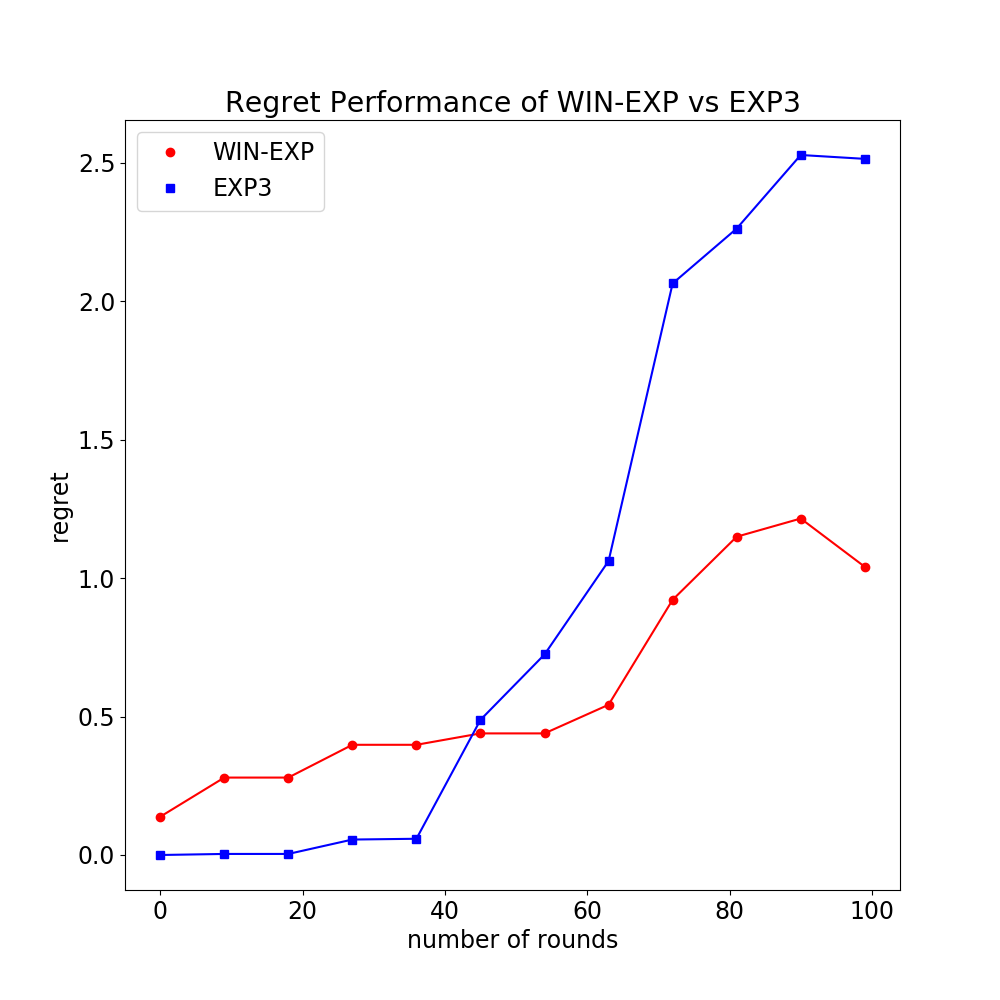
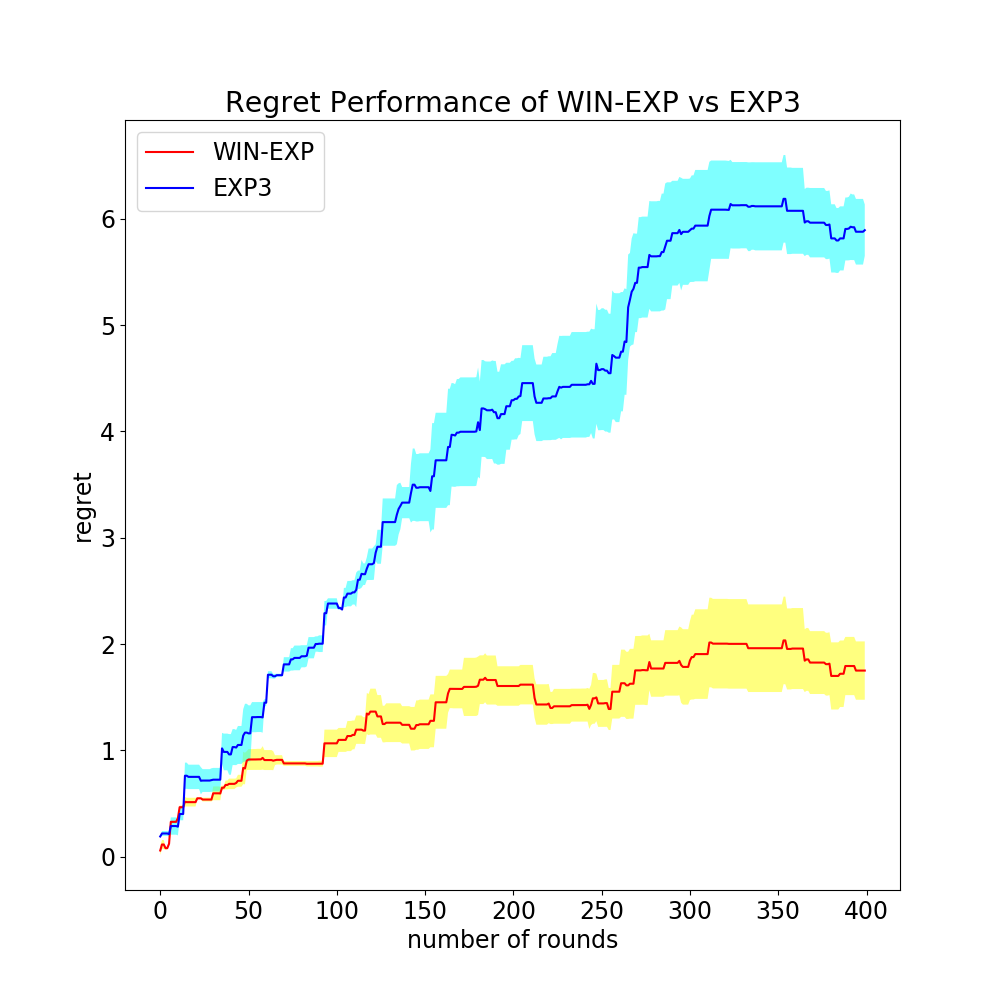
self_play changed

diff --git a/self play/runner-dp.py b/self play/runner-dp.py
@@ -6,15 +6,15 @@ import matplotlib
 import matplotlib.pyplot as plt
 
 
-num_repetitions = 5
+num_repetitions = 2
 winexp = [] 
 exp3 = []
 min_num_rounds = 0
-max_num_rounds = 1000
+max_num_rounds = 400
 step = 10
-num_auctions = 5
+num_auctions = 2
 num_adaptive = 4
-rounds = [T for T in range(min_num_rounds,max_num_rounds, step)]
+rounds = [T for T in range(min_num_rounds,max_num_rounds)]
 
 #initialize the bidders once for the maximum number of rounds 
 T = max_num_rounds
@@ -32,7 +32,7 @@ bidder = [Bidder(i, epsilon, T, outcome_space, num_repetitions, num_auctions) fo
 
 
 #winexp regret has to be returned as a list of all the regrets for all the rounds
-winexp = regret_winexp(bidder, T, num_repetitions, num_bidders, num_slots, outcome_space, rank_scores, ctr, reserve, values, num_auctions, bids, num_adaptive)
+(winexp,winexp_regrets) = regret_winexp(bidder, T, num_repetitions, num_bidders, num_slots, outcome_space, rank_scores, ctr, reserve, values, num_auctions, bids, num_adaptive)
 
 # for each bidder, re-initialize everything
 for i in range(0,num_adaptive):
@@ -48,27 +48,29 @@ for i in range(0,num_adaptive):
     bidder[i].reward_func      = [[[] for t in range(0,T)]  for _ in range(0,num_auctions)]
 
 #this has to be returned as a list of all the regrets for all the rounds 
-exp3 = regret_exp3(bidder,T,num_repetitions, num_bidders, num_slots, outcome_space, rank_scores, ctr, reserve, values, num_auctions,bids,num_adaptive)
+(exp3,exp3_regrets) = regret_exp3(bidder,T,num_repetitions, num_bidders, num_slots, outcome_space, rank_scores, ctr, reserve, values, num_auctions,bids,num_adaptive)
 
-final_winexp = [winexp[i] for i in range(min_num_rounds, max_num_rounds, step)]
-final_exp3 = [exp3[i] for i in range(min_num_rounds,max_num_rounds,step)]
-
-#print ("final_ex3")
-#print final_exp3
+final_winexp            =  np.array([winexp[i] for i in range(min_num_rounds, max_num_rounds)])
+winexp_arr              =  np.array(winexp_regrets) #size repetitions x T
+winexp_10_percentile    =  [np.percentile(winexp_arr[:,t],10) for t in range(0,T)]
+winexp_90_percentile    =  [np.percentile(winexp_arr[:,t],90) for t in range(0,T)]
+final_exp3              =  np.array([exp3[i] for i in range(min_num_rounds,max_num_rounds)])
+exp3_arr                =  np.array(exp3_regrets) #size repetitions x T
+exp3_10_percentile      =  [np.percentile(exp3_arr[:,t],10) for t in range(0,T)]
+exp3_90_percentile      =  [np.percentile(exp3_arr[:,t],90) for t in range(0,T)]
 
 matplotlib.rcParams.update({'font.size': 17})
 fig = plt.figure()
 fig.set_figheight(10)
 fig.set_figwidth(10)
 plt.figure(1,figsize=(10,10))
-plt.plot(rounds, final_winexp, 'ro', label = 'WIN-EXP')
-plt.plot(rounds,final_winexp, 'r-')
-plt.plot(rounds, final_exp3, 'bs', label = 'EXP3')
-plt.plot(rounds,final_exp3, 'b-')
+plt.plot(rounds, final_winexp, 'r-', label = 'WIN-EXP')
+plt.fill_between(rounds, winexp_10_percentile, winexp_90_percentile,facecolor='yellow', alpha=0.5)
+plt.plot(rounds, final_exp3, 'b-', label = 'EXP3')
+plt.fill_between(rounds, exp3_10_percentile, exp3_90_percentile,facecolor='cyan', alpha=0.5)
 plt.legend(loc='best')
 plt.xlabel('number of rounds')
 plt.ylabel('regret')
 plt.title('Regret Performance of WIN-EXP vs EXP3')
 plt.savefig('self_play.png')
-#plt.savefig('exp3.png')
-#plt.show()
+plt.show()

diff --git a/self play/runner_winexp_all_bidders.py b/self play/runner_winexp_all_bidders.py
@@ -22,7 +22,7 @@ def compute_reward(allocation_func, payment_func, ctr, values):
         if b in ctr:
             # If bidder isn't allocated any slot: b == 0
             # However, b == 0 also if the CTR of the position is 0
-            reward_lst.append(values[ctr.index(b)] - payment_func[allocation_func.index(b)])
+            reward_lst.append(values - payment_func[allocation_func.index(b)])
         else :
             reward_lst.append(-1)
     return reward_lst
@@ -44,6 +44,7 @@ def main_winexp(bidder,curr_rep, T,num_bidders, num_slots, outcome_space, rank_s
                 bid_chosen[i] = bids[t][i]
 
         # same bid over all auctions that run at the same timestep
+        auctions_won = 0
         for auction in range(0,num_auctions):
             #print ("all bids at timestep t=%d"%t)
             #bids[t] = bid_chosen
@@ -56,10 +57,11 @@ def main_winexp(bidder,curr_rep, T,num_bidders, num_slots, outcome_space, rank_s
                 bidder[i].alloc_func[auction][t] = [GSP(ctr[auction][t], reserve[auction][t], bids[t], rank_scores[auction][t], num_slots, num_bidders).alloc_func(bidder[i].id, bid*bidder[i].eps) for bid in range(0, bidder[i].bid_space)]
                 bid_vec = deepcopy(bids[t])
                 bidder[i].pay_func[t] = [GSP(ctr[auction][t], reserve[auction][t], bid_vec, rank_scores[auction][t], num_slots, num_bidders).pay_func(bidder[i].id, bid*bidder[i].eps) for bid in range(0, bidder[i].bid_space)]  
-                bidder[i].reward_func[auction][t] = compute_reward(bidder[i].alloc_func[auction][t], bidder[i].pay_func[t], ctr[auction][t], values[auction][t])
+                bidder[i].reward_func[auction][t] = compute_reward(bidder[i].alloc_func[auction][t], bidder[i].pay_func[t], ctr[auction][t], values[auction][t][bidder[i].id])
                 if bidder[i].id == 0:
                     # Only the learner follows WINEXP
                     if bidder[i].alloc_func[auction][t][int(math.ceil(bids[t][bidder[i].id]/bidder[i].eps))] != 0:
+                        auctions_won += 1
                         bidder[i].utility[auction][t] = (bidder[i].compute_utility(1, bidder[i].reward_func[auction][t], bidder[i].alloc_func[auction][t]))
                     else: 
                         bidder[i].utility[auction][t] = (bidder[i].compute_utility(0, bidder[i].reward_func[auction][t], bidder[i].alloc_func[auction][t]))
@@ -80,7 +82,7 @@ def main_winexp(bidder,curr_rep, T,num_bidders, num_slots, outcome_space, rank_s
                     r_s[b] += bidder[i].reward_func[auction][t][b]*bidder[i].alloc_func[auction][t][b]
                 #bidder.avg_utility[t].append(u_s[b]/num_auctions - 1) 
                 if bidder[i].id == 0:
-                    bidder[i].avg_utility[t].append(u_s[b]/num_auctions)
+                    bidder[i].avg_utility[t].append(u_s[b]/num_auctions + (num_auctions - auctions_won)/(num_auctions))
                     bidder[i].avg_reward[t].append(r_s[b]/num_auctions)
                 else: 
                     bidder[i].avg_utility[t].append(r_s[b]/num_auctions -1)

diff --git a/self play/runner_exp3_all_bidders.py b/self play/runner_exp3_all_bidders.py
@@ -52,7 +52,7 @@ def main_exp3(bidder,curr_rep, T,num_bidders, num_slots, outcome_space, rank_sco
                 bidder[i].alloc_func[auction][t] = [GSP(ctr[auction][t], reserve[auction][t], bids[t], rank_scores[auction][t], num_slots, num_bidders).alloc_func(bidder[i].id, bid*bidder[i].eps) for bid in range(0, bidder[i].bid_space)]
                 bid_vec = deepcopy(bids[t])
                 bidder[i].pay_func[t] = [GSP(ctr[auction][t], reserve[auction][t], bid_vec, rank_scores[auction][t], num_slots, num_bidders).pay_func(bidder[i].id, bid*bidder[i].eps) for bid in range(0, bidder[i].bid_space)]  
-                bidder[i].reward_func[auction][t] = compute_reward(bidder[i].alloc_func[auction][t], bidder[i].pay_func[t], ctr[auction][t], values[auction][t])
+                bidder[i].reward_func[auction][t] = compute_reward(bidder[i].alloc_func[auction][t], bidder[i].pay_func[t], ctr[auction][t], values[auction][t][bidder[i].id])
 
 
             #bidder.alloc_func[auction][t] = [GSP(ctr[auction][t], reserve[auction][t], bids[t], rank_scores[auction][t], num_slots, num_bidders).alloc_func(bidder.id, bid*bidder.eps) for bid in range(0, bidder.bid_space)]

diff --git a/self play/auction_parameters.py b/self play/auction_parameters.py
@@ -26,8 +26,8 @@ def set_auction_params(T,num_repetitions,num_auctions):
     reserve = [[np.random.uniform(0,0.3) for i in range(0,T)] for _ in range(0, num_auctions)]   
     # value function for every slot
     # could be seen as the conversion rate for every slot
-    # size of values: num_auctions x T x num_slots
-    values = [[[np.random.uniform(0,1) for j in range(0,num_slots)] for _ in range(0,T)] for _ in range(0,num_auctions)]
+    # size of values: num_auctions x T x num_bidders
+    values = [[[np.random.uniform(0,1) for j in range(0,num_bidders)] for _ in range(0,T)] for _ in range(0,num_auctions)]
     #print ("Rank Scores")
     #print rank_scores
     #print ("CTR")

diff --git a/self play/master_file.py b/self play/master_file.py
@@ -105,7 +105,7 @@ def regret_winexp(bidder, T,num_repetitions, num_bidders, num_slots, outcome_spa
     #plt.savefig('bids_winexp.png')
     winexp_regrets.close()
     winexp_bids.close()
-    return final_winexp_regr 
+    return (final_winexp_regr, winexp_regr)
 
 
 def regret_exp3(bidder, T,num_repetitions, num_bidders, num_slots, outcome_space, rank_scores, ctr, reserve, values,num_auctions,bids,num_adaptive):
@@ -167,4 +167,4 @@ def regret_exp3(bidder, T,num_repetitions, num_bidders, num_slots, outcome_space
 
     exp3_regrets.close()
     exp3_bids.close()
-    return (final_exp3_regr)
+    return (final_exp3_regr, exp3_regr)
